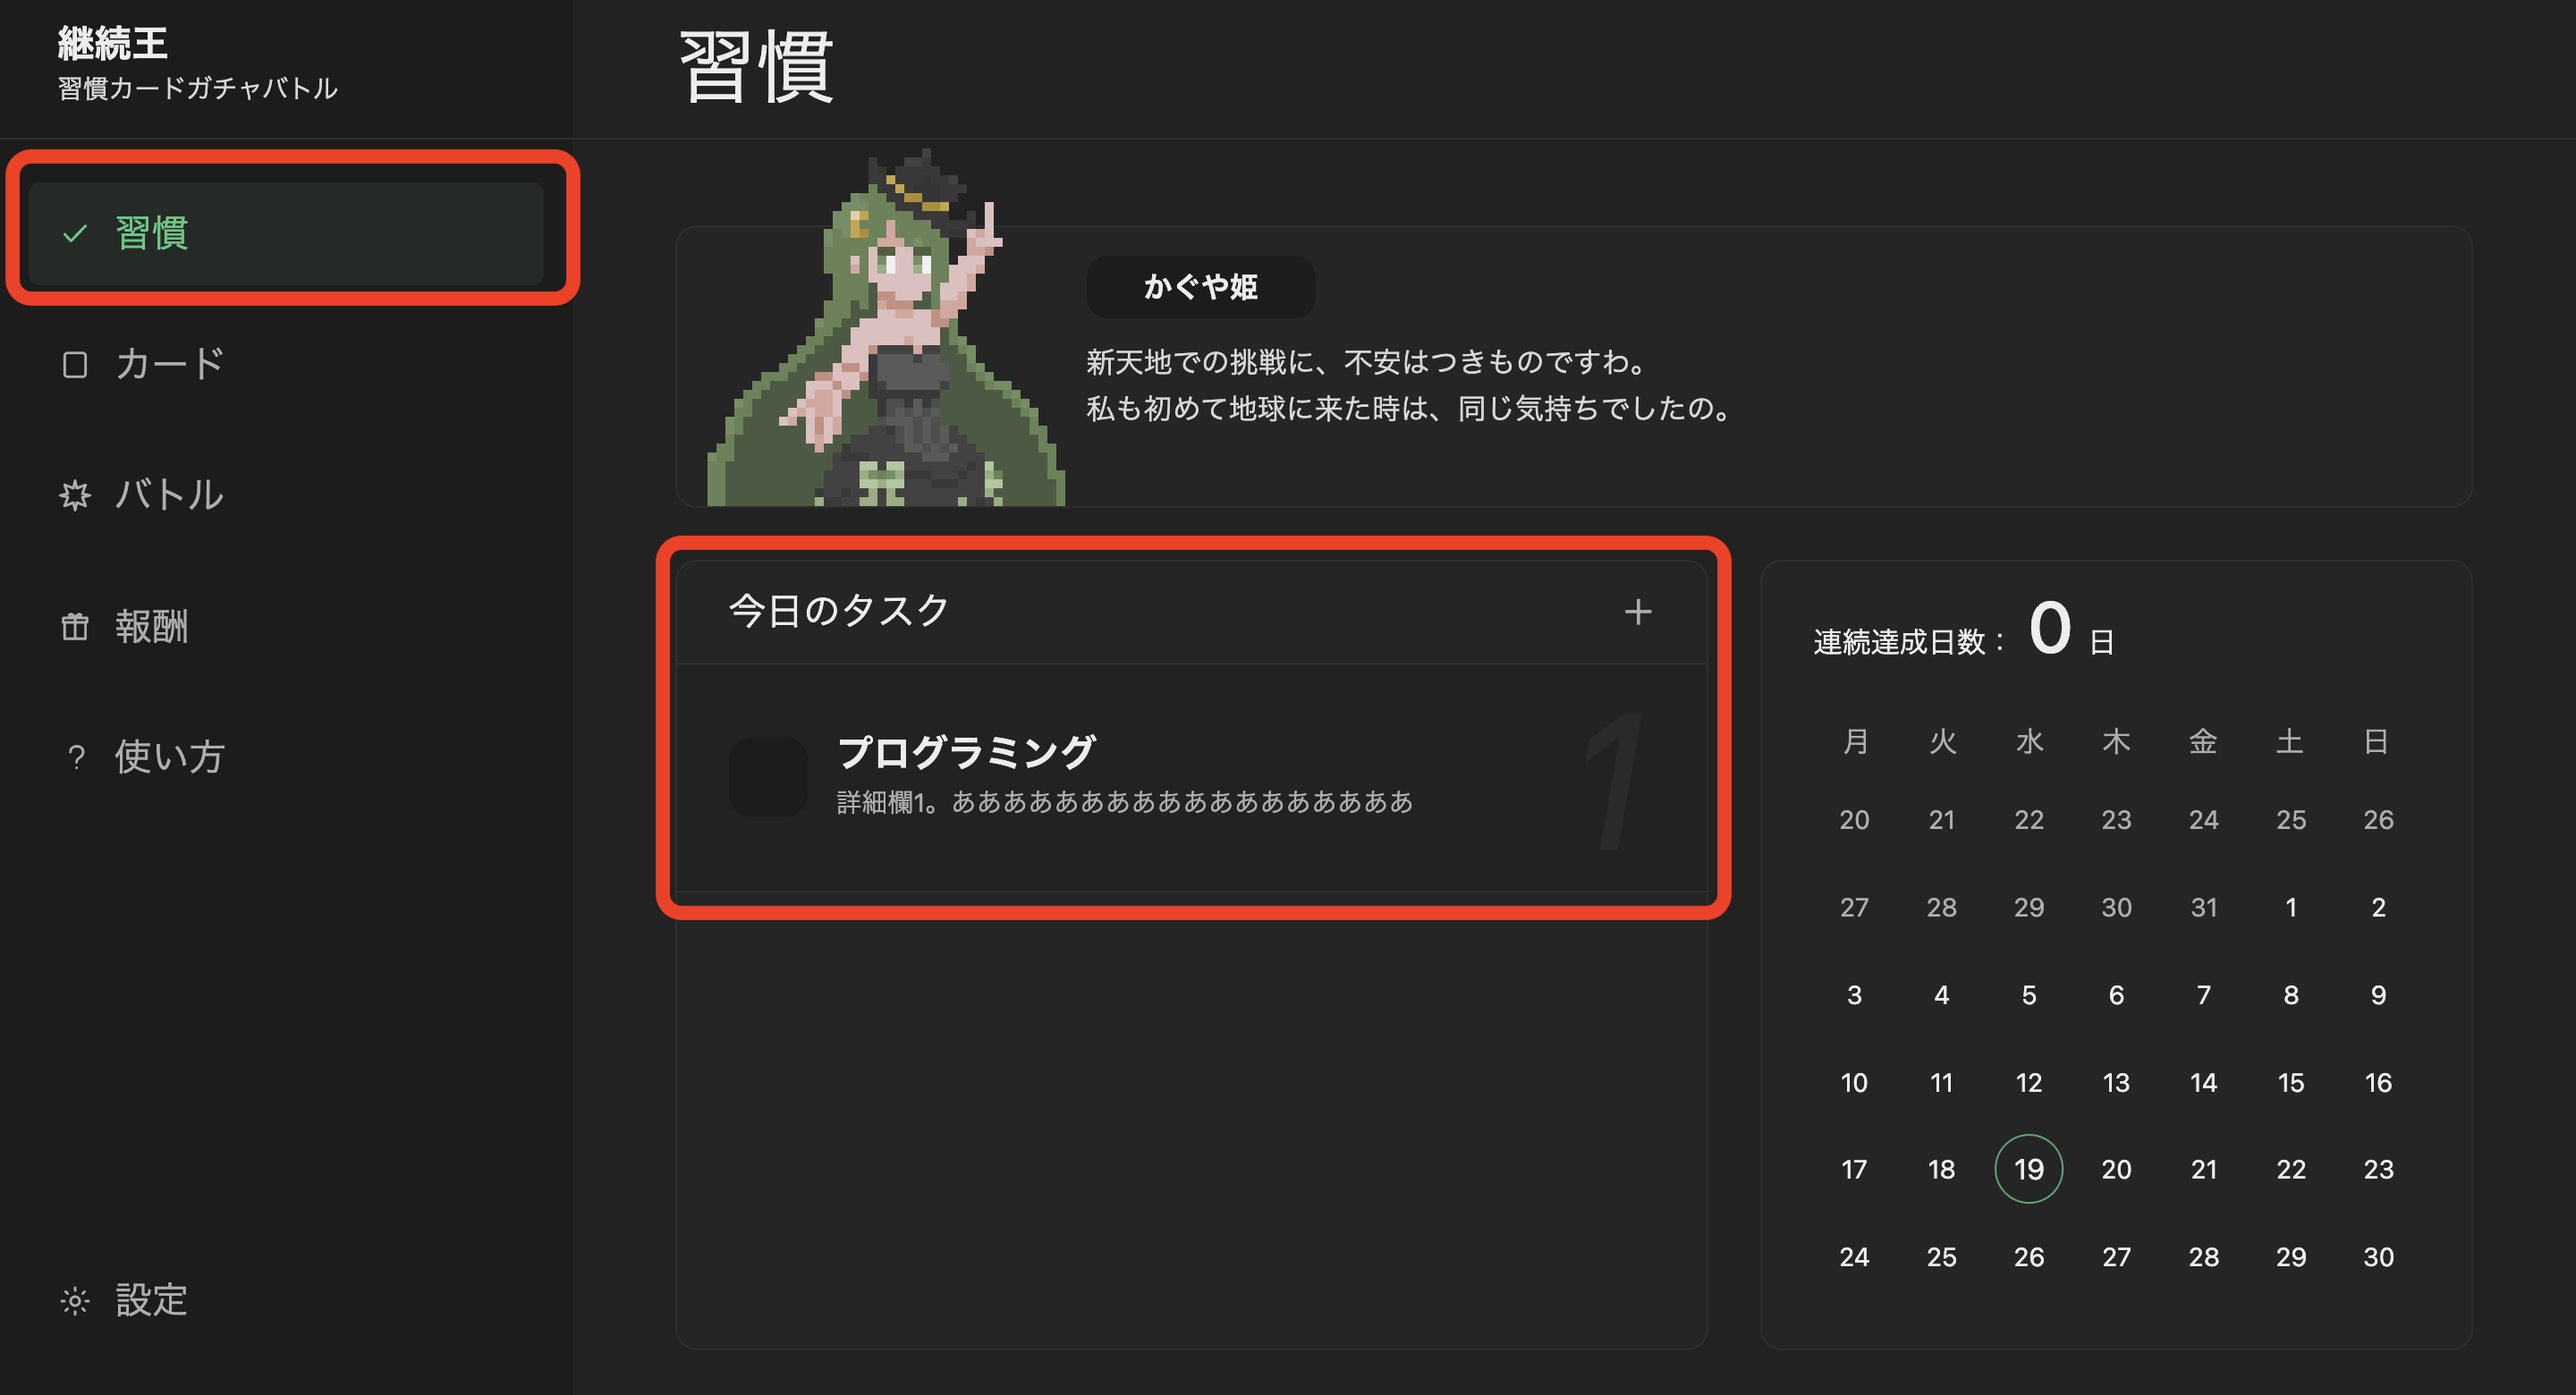
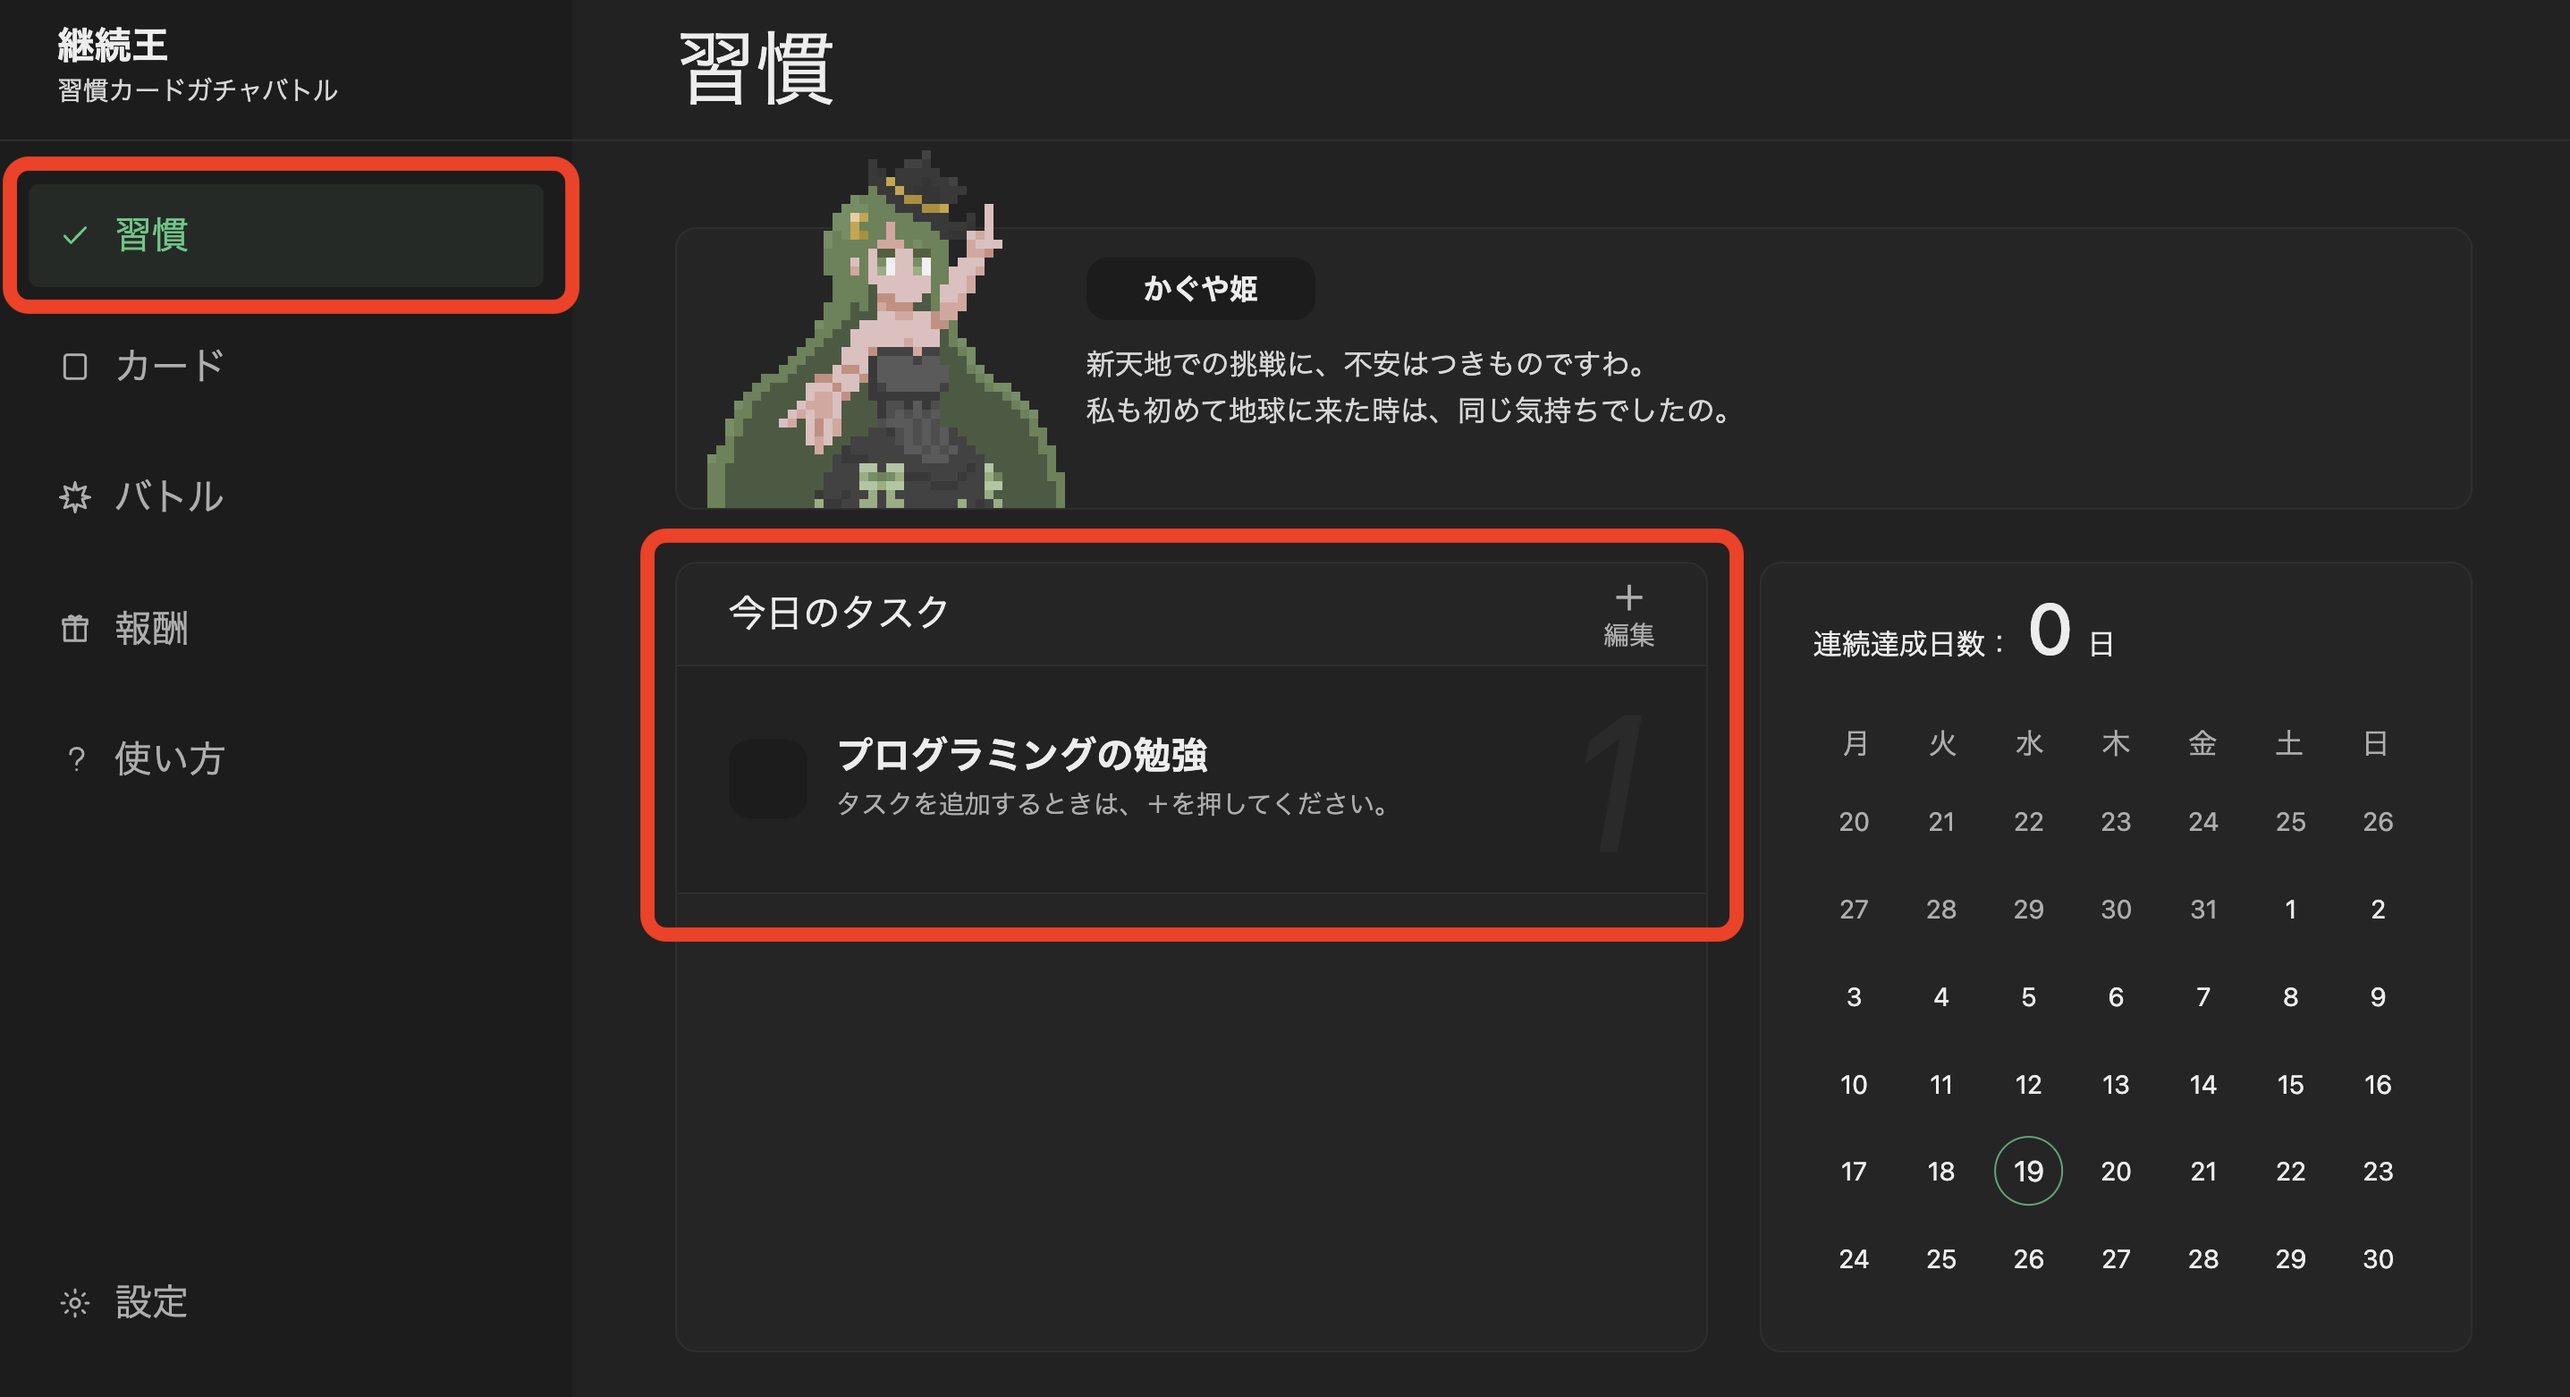
使い方と習慣ページの軽微な表示変更

diff --git a/app/assets/stylesheets/helps/_show.scss b/app/assets/stylesheets/helps/_show.scss
@@ -22,6 +22,7 @@
 
 .guide-hero {
   display: flex;
+  position: relative;
   height: var(--header-height);
   min-height: var(--header-height);
   padding: 0 var(--panel-padding);
@@ -36,6 +37,37 @@
   font-size: var(--font-size-header);
   font-weight: 300;
   line-height: 1;
+}
+
+.guide-hero__relogin {
+  display: inline-flex;
+  position: absolute;
+  top: 50%;
+  right: 0;
+  min-height: 2rem;
+  padding: var(--space-3) var(--space-4);
+  border: 0.25rem solid var(--color-text-primary);
+  border-radius: var(--border-radius-panel);
+  align-items: center;
+  justify-content: center;
+  color: var(--color-text-primary);
+  background: var(--gray-3);
+  font-size: var(--font-size-small);
+  font-weight: 700;
+  line-height: 1;
+  text-decoration: none;
+  transform: translateY(-50%);
+}
+
+.guide-hero__relogin:hover {
+  border-color: var(--color-text-primary);
+  color: var(--color-text-primary);
+  background: var(--gray-3);
+}
+
+.guide-hero__relogin:focus-visible {
+  outline: var(--border-width) solid var(--color-text-primary);
+  outline-offset: var(--space-1);
 }
 
 .guide-section {

diff --git a/app/assets/stylesheets/tasks/_dashboard.scss b/app/assets/stylesheets/tasks/_dashboard.scss
@@ -71,16 +71,39 @@ input {
 }
 
 .task-panel__settings-button {
-  display: inline-grid;
-  width: var(--sidebar-icon-size);
-  height: var(--sidebar-icon-size);
+  display: inline-flex;
+  position: relative;
+  z-index: 2;
+  width: max-content;
+  min-width: var(--sidebar-icon-size);
+  height: auto;
+  margin-left: auto;
   padding: 0;
   border: 0;
+  align-items: center;
+  flex: 0 0 auto;
+  flex-direction: column;
+  gap: var(--space-1);
+  justify-content: center;
   color: var(--color-text-muted);
   background: transparent;
-  font-size: var(--font-size-title);
+  cursor: pointer;
   line-height: 1;
-  place-items: center;
+}
+
+.task-panel__settings-button-icon {
+  display: block;
+  font-size: var(--font-size-title);
+  pointer-events: none;
+}
+
+.task-panel__settings-button-label {
+  display: block;
+  width: 100%;
+  font-size: var(--font-size-small);
+  pointer-events: none;
+  text-align: right;
+  white-space: nowrap;
 }
 
 .task-panel__settings-button:hover,

diff --git a/spec/system/task_settings_spec.rb b/spec/system/task_settings_spec.rb
@@ -66,7 +66,63 @@ RSpec.describe "Task settings", type: :system do
       }
     )
 
-    expect(find("[data-task-settings-open]").text).to eq("＋")
+    settings_button = find("[data-task-settings-open]")
+    expect(settings_button).to have_css(
+      ".task-panel__settings-button-icon",
+      text: "＋"
+    )
+    expect(settings_button).to have_css(
+      ".task-panel__settings-button-label",
+      text: "編集"
+    )
+    settings_button_metrics_script = <<~JAVASCRIPT
+      (() => {
+        const button = document.querySelector("[data-task-settings-open]")
+        const header = button.closest(".task-panel__header")
+        const icon = button.querySelector(".task-panel__settings-button-icon")
+        const label = button.querySelector(".task-panel__settings-button-label")
+        const reference = document.querySelector(".task-item__description")
+        const buttonRect = button.getBoundingClientRect()
+        const headerRect = header.getBoundingClientRect()
+        const iconRect = icon.getBoundingClientRect()
+        const labelRect = label.getBoundingClientRect()
+        const headerPaddingRight = Number.parseFloat(
+          getComputedStyle(header).paddingRight
+        )
+
+        return {
+          centerDifference: Math.abs(
+            (iconRect.left + iconRect.width / 2) -
+              (labelRect.left + labelRect.width / 2)
+          ),
+          labelFontSize: getComputedStyle(label).fontSize,
+          referenceFontSize: getComputedStyle(reference).fontSize,
+          labelPointerEvents: getComputedStyle(label).pointerEvents,
+          labelTextAlign: getComputedStyle(label).textAlign,
+          labelWhiteSpace: getComputedStyle(label).whiteSpace,
+          buttonFlexDirection: getComputedStyle(button).flexDirection,
+          buttonRightDifference: Math.abs(
+            buttonRect.right - (headerRect.right - headerPaddingRight)
+          )
+        }
+      })()
+    JAVASCRIPT
+    pc_metrics = page.evaluate_script(settings_button_metrics_script)
+    page.current_window.resize_to(390, 844)
+    mobile_metrics = page.evaluate_script(settings_button_metrics_script)
+    page.current_window.resize_to(1680, 1050)
+
+    [pc_metrics, mobile_metrics].each do |metrics|
+      expect(metrics).to include(
+        "labelFontSize" => metrics.fetch("referenceFontSize"),
+        "labelPointerEvents" => "none",
+        "labelTextAlign" => "right",
+        "labelWhiteSpace" => "nowrap",
+        "buttonFlexDirection" => "column"
+      )
+      expect(metrics.fetch("centerDifference")).to be < 0.5
+      expect(metrics.fetch("buttonRightDifference")).to be < 0.5
+    end
     visible_tasks = all(".task-item[data-task-id]", visible: true)
     expect(visible_tasks.map { |task| task["data-task-id"] }).to eq(%w[1 3])
     expect(visible_tasks[0].native.rect.y).to be < visible_tasks[1].native.rect.y

diff --git a/spec/requests/helps_spec.rb b/spec/requests/helps_spec.rb
@@ -18,6 +18,9 @@ RSpec.describe "Guide", type: :request do
       expect(document.at_css(".app-sidebar")).to be_nil
       expect(document.at_css("[data-battle-launcher-modal]")).to be_nil
       expect(document.at_css("h1").text.strip).to eq("継続王の使い方")
+      relogin_link = document.at_css(".guide-hero__relogin")
+      expect(relogin_link.text.strip).to eq("再ログイン")
+      expect(relogin_link["href"]).to eq(login_path)
     end
 
     it "shows the requested sections and reuses one action partial four times" do
@@ -28,9 +31,9 @@ RSpec.describe "Guide", type: :request do
 
       expect(headings).to eq([
         "継続王とは？",
-        "習慣",
-        "バトル",
-        "報酬",
+        "01. 習慣",
+        "02. バトル",
+        "03. 報酬",
         "継続王が習慣化におすすめな理由",
         "データの取り扱い"
       ])
@@ -102,6 +105,7 @@ RSpec.describe "Guide", type: :request do
         .to eq(["アプリに戻る"])
       expect(document.css(".guide-action__return").map { |link| link["href"] }.uniq)
         .to eq([root_path])
+      expect(document.at_css(".guide-hero__relogin")).to be_nil
     end
   end
 

diff --git a/app/controllers/application_controller.rb b/app/controllers/application_controller.rb
@@ -1,6 +1,6 @@
 class ApplicationController < ActionController::Base
   AUTHENTICATION_COOKIE_NAME = :keizokuou_authentication
-  INITIAL_TASK_DESCRIPTION = "タスクを追加するときは、⚙を押してください。".freeze
+  INITIAL_TASK_DESCRIPTION = "タスクを追加するときは、＋を押してください。".freeze
 
   before_action :require_authentication
   helper_method :current_user, :password_setup_notification?
